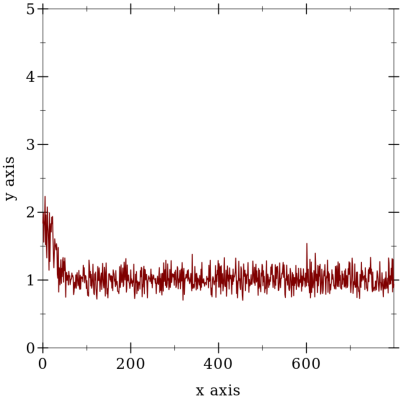
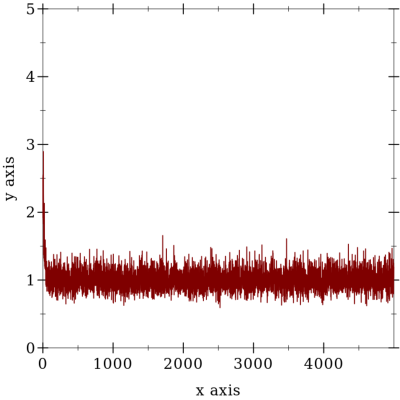
test rd

diff --git a/README.md b/README.md
@@ -61,5 +61,7 @@ because hash->list and list->hash i have to add `flatten
 | 3 | export to graphviz dot instead of matha code  | 24 ||x|with-output-to-dot|
 | 4 | reset: both current and payoff  | 23 ||x||
 | 5 | visualise the mutation process on TV  | |||ugh later..|
+| 6 | why it doesnt show cooperative period |1 sep ||x|try to test the rd first, wo mutation: fail. blame: `scan right, but forget to reset payoff before scan|
+| 7 | replicator dynamics test looks squiggly ugly | ||| blame: continual probability method|
 
 
